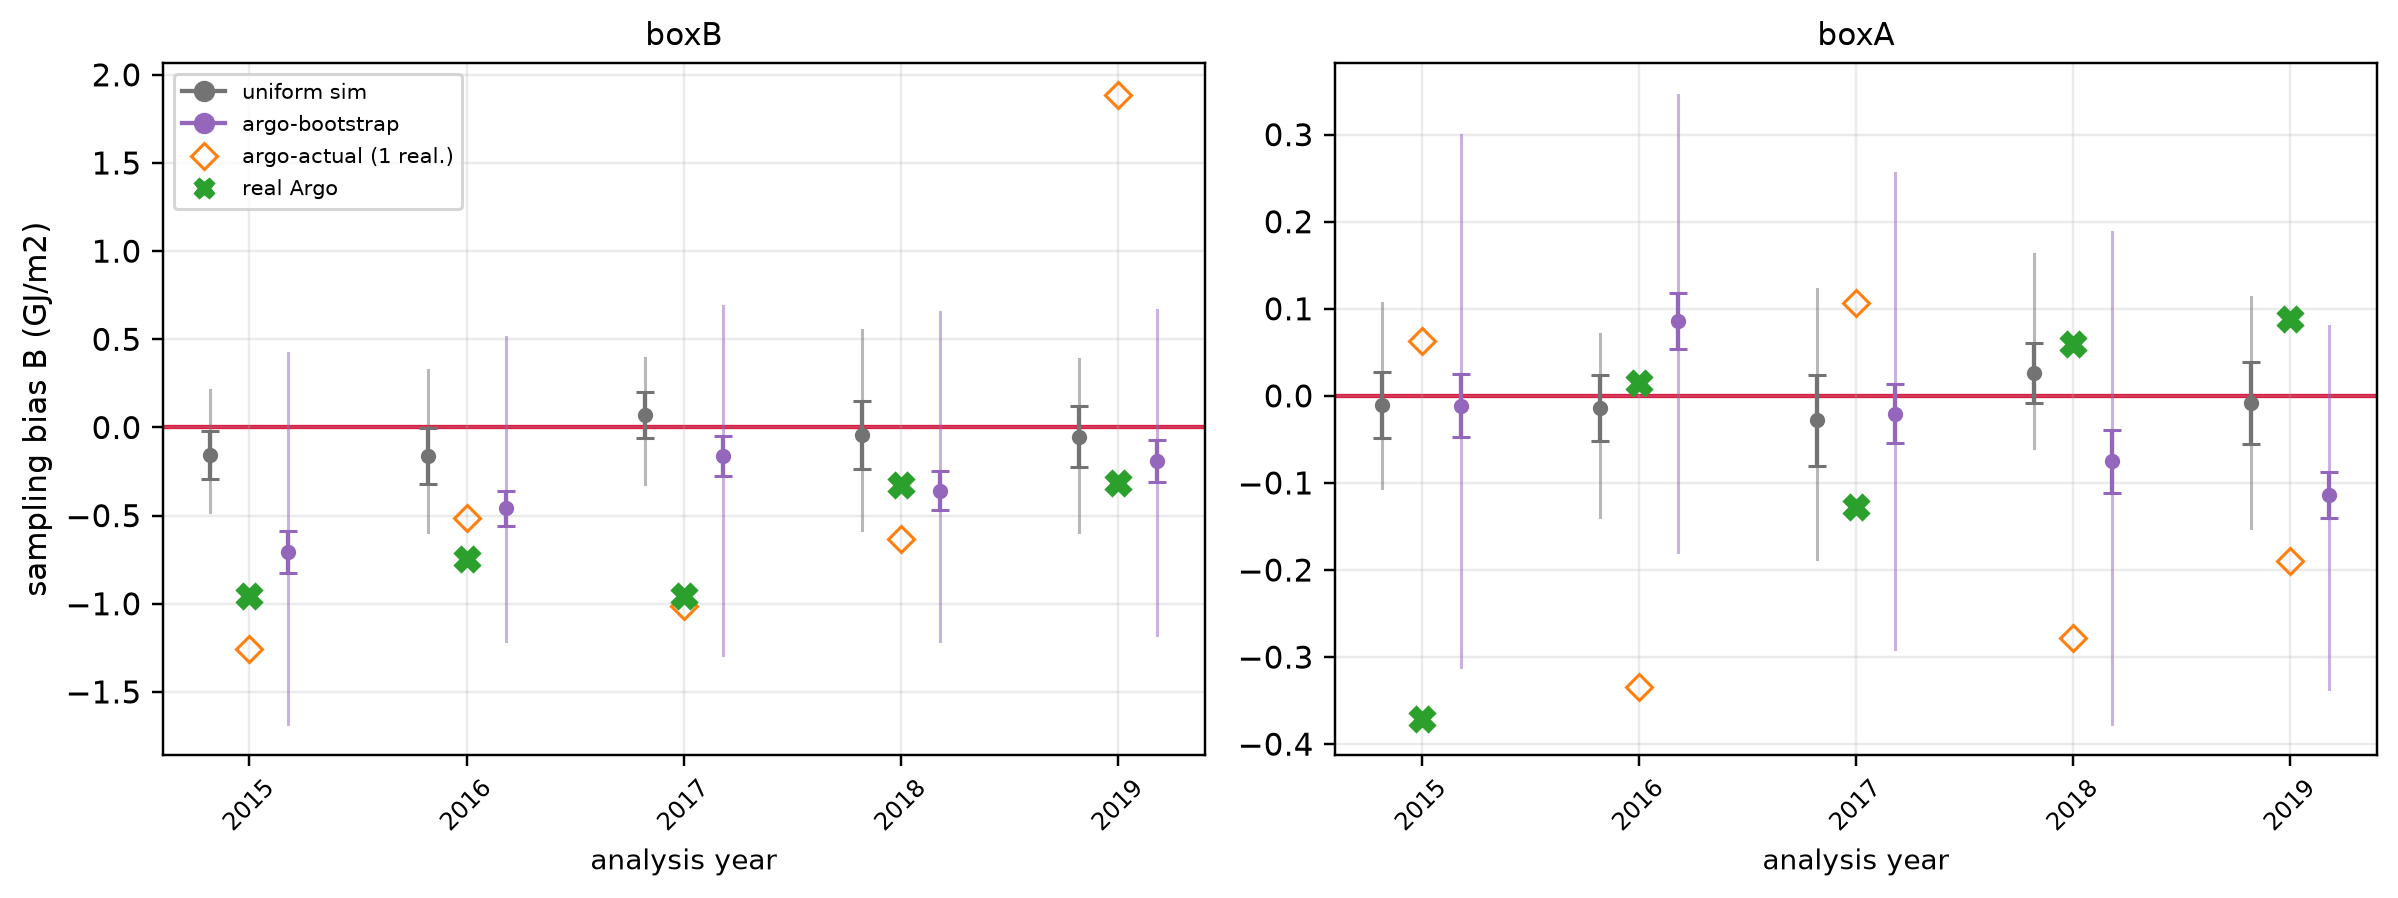
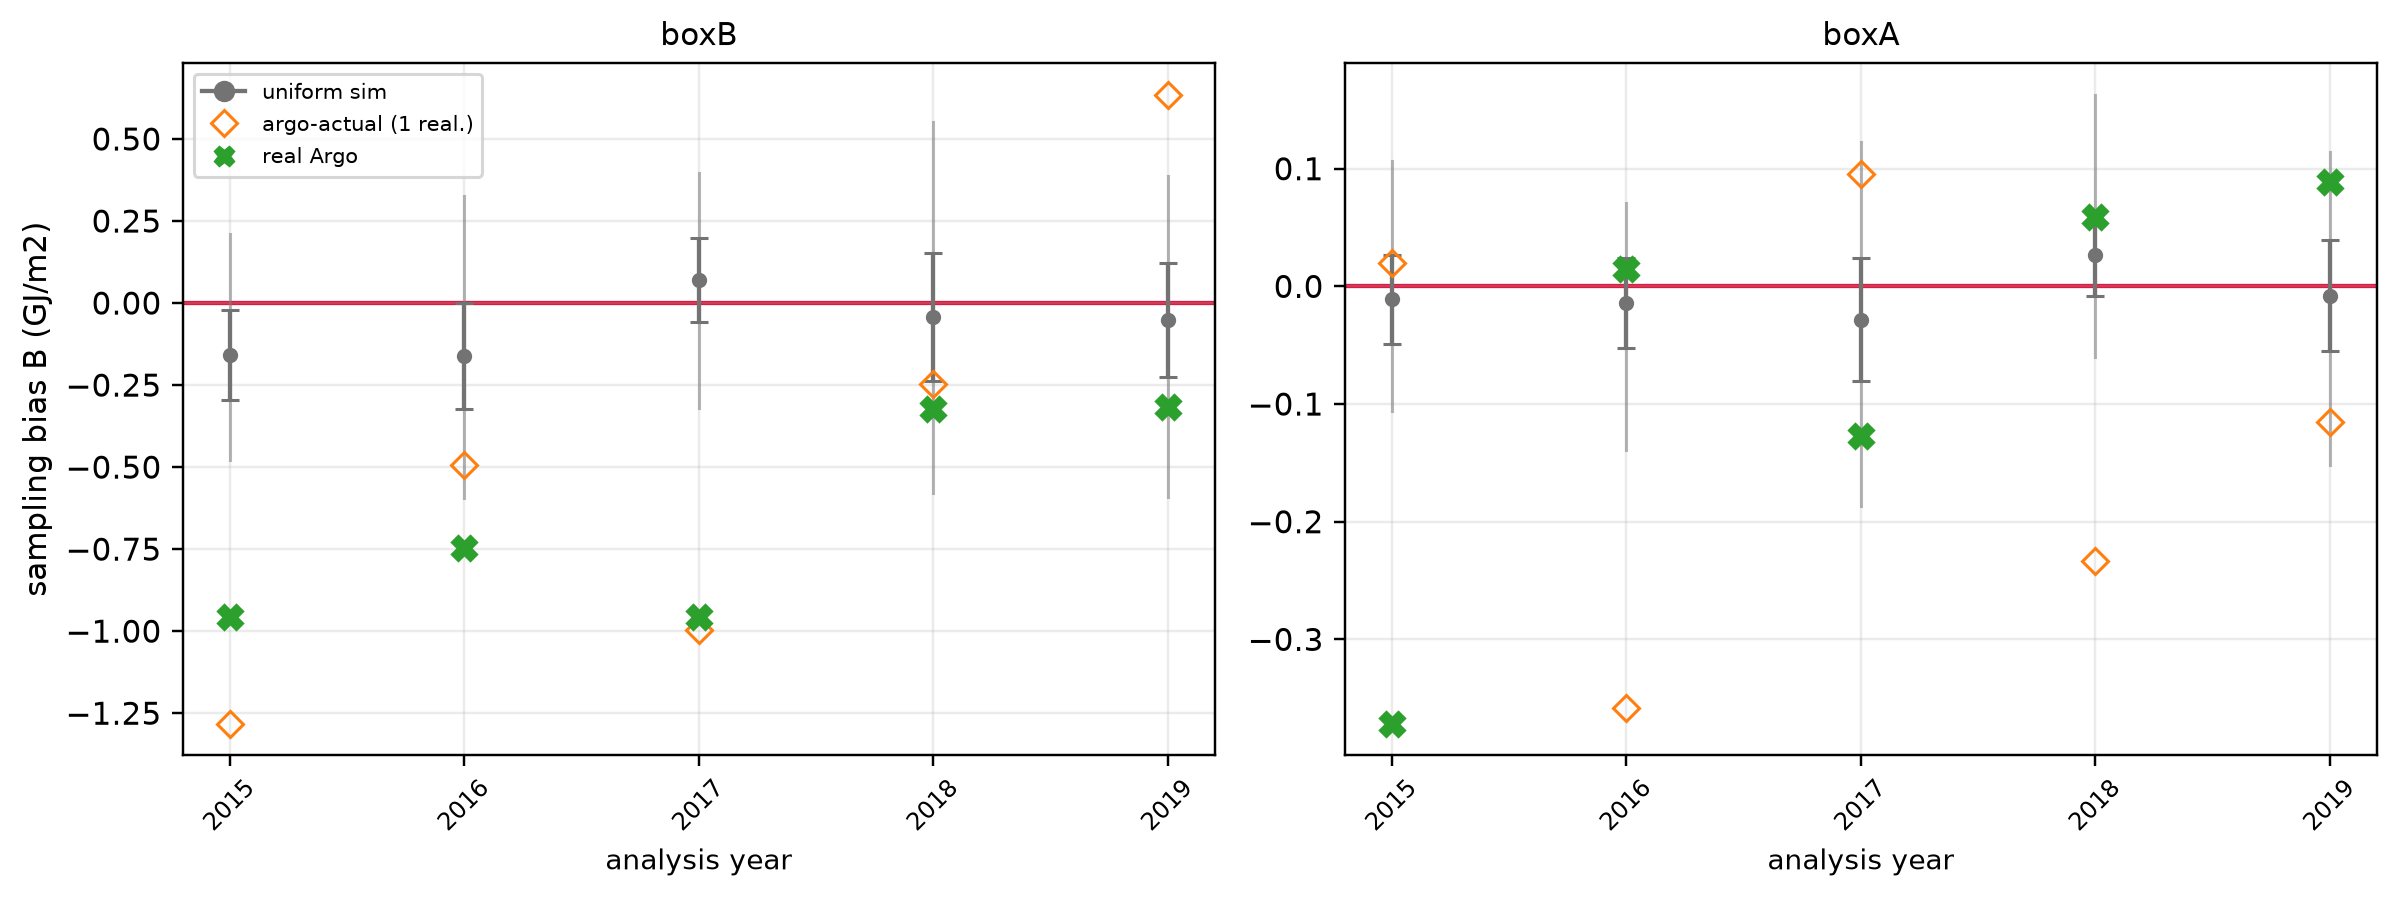
report: drop old-domain argo-bootstrap, use new-domain argo-actual
Make boot optional in argo_comparison_table/plot_argo_comparison (mean_mc), and
remove the old-domain bootstrap arm from osse.qmd's real-deployment comparison.
The argo-actual arm is now the new-domain verbatim run: it reproduces ~2/3 of
the real Box B bias (mean -0.48 vs real -0.73 GJ/m2), sign-matching 2015-2018.
Update prose, callout, and the divergence float count (365). Re-rendered.

Claude-Session: https://claude.ai/code/session_01AjFuEd4jkuJ1tXVjKHyf3y

diff --git a/code/osse/mean_mc.py b/code/osse/mean_mc.py
@@ -2739,33 +2739,36 @@ def plot_design_effect(d, boxes=("boxB", "boxA"), figsize=(10, 3.6)):
     return fig
 
 
-def argo_comparison_table(uniform, boot, actual, real, boxes=("boxB", "boxA")):
-    """Bias by box/year across the three deployment laws (GJ/m2): the uniform-seeded
-    ensemble mean, the real-deployment bootstrap ensemble (mean and sd over reps),
-    the single actual-deployment realization, and the real Argo array."""
+def argo_comparison_table(uniform, actual, real, boot=None, boxes=("boxB", "boxA")):
+    """Bias by box/year across deployment laws (GJ/m2): the uniform-seeded ensemble
+    mean, the single actual-deployment realization, and the real Argo array. Pass
+    `boot` (the resampled real-deployment ensemble) to add its mean/sd columns."""
     rows = []
     for b in boxes:
         u = uniform[uniform["box"] == b].groupby("year")["B"].mean()
-        bt = boot[boot["box"] == b].groupby("year")["B"]
         ac = actual[actual["box"] == b].set_index("year")["B"]
+        bt = boot[boot["box"] == b].groupby("year")["B"] if boot is not None else None
         rr = real[b]
         for y in sorted(int(v) for v in u.index):
-            rows.append({"box": b, "year": y,
-                         "uniform": u[y] * J_TO_GJ,
-                         "argo-boot mean": bt.mean().get(y, np.nan) * J_TO_GJ,
-                         "argo-boot sd": bt.std().get(y, np.nan) * J_TO_GJ,
-                         "argo-actual": ac.get(y, np.nan) * J_TO_GJ,
-                         "real Argo": rr.get(y, np.nan) * J_TO_GJ})
+            row = {"box": b, "year": y, "uniform": u[y] * J_TO_GJ}
+            if bt is not None:
+                row["argo-boot mean"] = bt.mean().get(y, np.nan) * J_TO_GJ
+                row["argo-boot sd"] = bt.std().get(y, np.nan) * J_TO_GJ
+            row["argo-actual"] = ac.get(y, np.nan) * J_TO_GJ
+            row["real Argo"] = rr.get(y, np.nan) * J_TO_GJ
+            rows.append(row)
     return pd.DataFrame(rows)
 
 
-def plot_argo_comparison(uniform, boot, actual, real, boxes=("boxB", "boxA"), figsize=(11, 4.2)):
+def plot_argo_comparison(uniform, actual, real, boot=None, boxes=("boxB", "boxA"), figsize=(11, 4.2)):
     """Deployment-law comparison, one panel per box: dodged 95% CI + 5-95% intervals
-    for the uniform ensemble and the real-deployment bootstrap, with the single
-    actual-deployment realization and the real Argo array overlaid as markers."""
+    for the uniform ensemble (and the real-deployment bootstrap if `boot` is given),
+    with the single actual-deployment realization and real Argo overlaid as markers."""
     import matplotlib.pyplot as plt
     from matplotlib.lines import Line2D
-    ens = [(uniform, "0.45", -0.18), (boot, "tab:purple", 0.18)]
+    ens = [(uniform, "0.45", -0.18 if boot is not None else 0.0)]
+    if boot is not None:
+        ens.append((boot, "tab:purple", 0.18))
     fig, axes = plt.subplots(1, len(boxes), figsize=figsize)
     for ax, box in zip(np.atleast_1d(axes), boxes):
         years = sorted(int(y) for y in uniform.loc[uniform["box"] == box, "year"].unique())
@@ -2792,10 +2795,11 @@ def plot_argo_comparison(uniform, boot, actual, real, boxes=("boxB", "boxA"), fi
         ax.set_title(box, fontsize=10)
         ax.set_xlabel("analysis year", fontsize=9)
     np.atleast_1d(axes)[0].set_ylabel("sampling bias B (GJ/m2)")
-    handles = [Line2D([0], [0], color="0.45", lw=1.4, marker="o", label="uniform sim"),
-               Line2D([0], [0], color="tab:purple", lw=1.4, marker="o", label="argo-bootstrap"),
-               Line2D([0], [0], color="tab:orange", lw=0, marker="D", mfc="none", label="argo-actual (1 real.)"),
-               Line2D([0], [0], color="tab:green", lw=0, marker="X", label="real Argo")]
+    handles = [Line2D([0], [0], color="0.45", lw=1.4, marker="o", label="uniform sim")]
+    if boot is not None:
+        handles.append(Line2D([0], [0], color="tab:purple", lw=1.4, marker="o", label="argo-bootstrap"))
+    handles += [Line2D([0], [0], color="tab:orange", lw=0, marker="D", mfc="none", label="argo-actual (1 real.)"),
+                Line2D([0], [0], color="tab:green", lw=0, marker="X", label="real Argo")]
     np.atleast_1d(axes)[0].legend(handles=handles, fontsize=7, loc="best")
     fig.tight_layout()
     return fig
